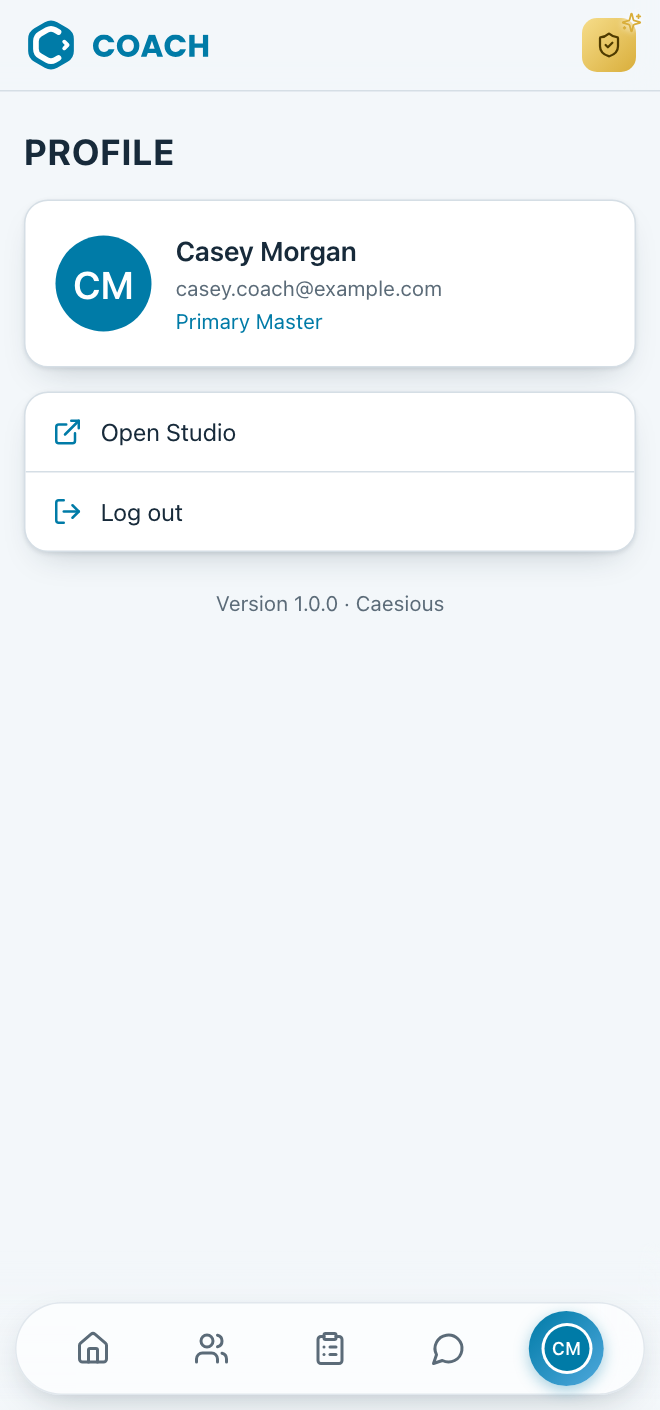
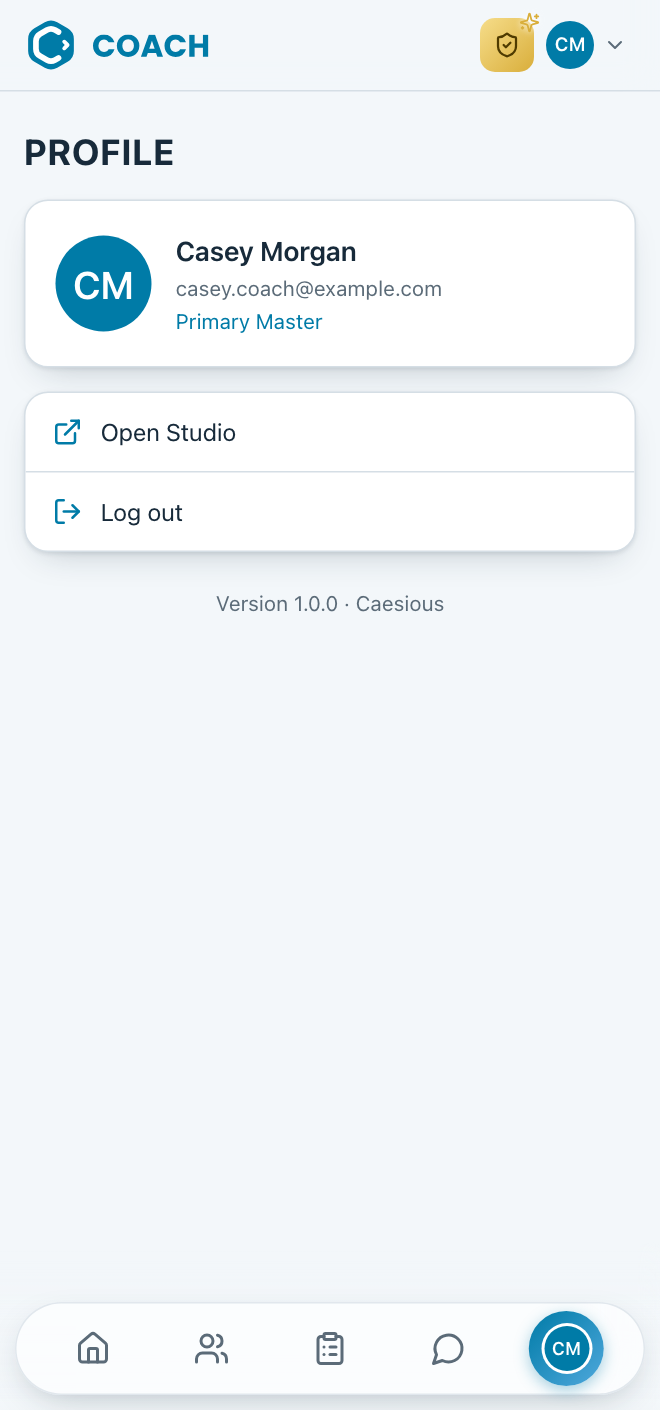
Account menu back beside the badge; Studio: schedule, sessions, and payments

Changed region(s): [[0.7273, 0.0, 0.9697, 0.0624]]

diff --git a/src/chrome/AccountMenu.jsx b/src/chrome/AccountMenu.jsx
@@ -1,0 +1,62 @@
+import React, { useEffect, useRef, useState } from "react";
+import { ChevronDown, ExternalLink, LogOut } from "lucide-react";
+import { STUDIO_URL } from "../lib/api";
+import { VERSION_LABEL } from "../version";
+import { Avatar } from "./Avatar";
+
+const ROLE = { master: "Master", admin: "Admin", staff: "Front desk", trainer: "Trainer" };
+
+/**
+ * You, in the corner: your photo or initials with a chevron, opening a menu
+ * with who is signed in, Open Studio, Log out and the version. Coach's first
+ * header had it (Glenn liked it and asked for it back, 16 Oct 2026); it sits
+ * after the role badge, and Profile on the tab bar holds the same things.
+ * Your name shows beside the photo where there is room.
+ */
+export function AccountMenu({ user, onLogout }) {
+  const [open, setOpen] = useState(false);
+  const ref = useRef(null);
+  const btnRef = useRef(null);
+
+  useEffect(() => {
+    if (!open) return undefined;
+    const onDown = (e) => { if (!ref.current?.contains(e.target)) setOpen(false); };
+    const onKey = (e) => { if (e.key === "Escape") { setOpen(false); btnRef.current?.focus(); } };
+    document.addEventListener("mousedown", onDown);
+    document.addEventListener("keydown", onKey);
+    return () => { document.removeEventListener("mousedown", onDown); document.removeEventListener("keydown", onKey); };
+  }, [open]);
+
+  const role = user.isPrimary ? "Primary Master" : ROLE[user.role];
+  return (
+    <div className="relative" ref={ref}>
+      <button ref={btnRef} type="button" onClick={() => setOpen(o => !o)} aria-expanded={open} aria-haspopup="menu"
+        aria-label={`${user.name}: account menu`}
+        className="flex items-center gap-1.5 rounded-full pl-0.5 pr-1.5 h-9 transition-colors hover:bg-(--ghost-fill)">
+        <Avatar user={user} size={32} />
+        <span className="hidden sm:block text-sm font-medium max-w-48 truncate" style={{ color: "var(--ink)" }}>{user.name}</span>
+        <ChevronDown size={16} style={{ color: "var(--iron)", transform: open ? "rotate(180deg)" : undefined, transition: "transform .2s ease" }} aria-hidden="true" />
+      </button>
+      {open && (
+        <div role="menu" className="cx-card absolute right-0 mt-2 w-64 p-2" style={{ borderRadius: 14, zIndex: 40, background: "var(--badge-open)" }}>
+          <div className="px-3 py-2 flex items-center gap-3">
+            <Avatar user={user} size={40} />
+            <div className="min-w-0">
+              <div className="font-semibold truncate">{user.name}</div>
+              <div className="text-xs truncate" style={{ color: "var(--iron)" }}>{user.email}</div>
+              {role && <div className="text-xs mt-0.5" style={{ color: "var(--accent)" }}>{role}</div>}
+            </div>
+          </div>
+          <div className="my-1 border-t" />
+          <a role="menuitem" href={STUDIO_URL} className="flex items-center gap-2.5 px-3 py-2 rounded-lg text-sm hover:bg-(--ghost-fill)">
+            <ExternalLink size={16} style={{ color: "var(--accent)" }} aria-hidden="true" /> Open Studio
+          </a>
+          <button role="menuitem" type="button" onClick={onLogout} className="w-full flex items-center gap-2.5 px-3 py-2 rounded-lg text-sm hover:bg-(--ghost-fill)">
+            <LogOut size={16} style={{ color: "var(--accent)" }} aria-hidden="true" /> Log out
+          </button>
+          <p className="px-3 pt-1 pb-1 text-[11px]" style={{ color: "var(--iron)" }}>Version {VERSION_LABEL}</p>
+        </div>
+      )}
+    </div>
+  );
+}

diff --git a/src/chrome/Header.jsx b/src/chrome/Header.jsx
@@ -5,6 +5,7 @@ import badgeMarkDark from "../assets/coach-badge-dark.svg";
 import coachIcon from "../assets/coach-app-icon.png";
 import studioIcon from "../assets/studio-app-icon.png";
 import { CoachWordmark } from "./CoachWordmark";
+import { AccountMenu } from "./AccountMenu";
 import { STUDIO_URL } from "../lib/api";
 
 /* A badge's square, as in Studio's header: the logo is drawn at it so
@@ -27,7 +28,7 @@ const ROLE = { master: "Master", admin: "Admin" };
  * always there. Open, the badge stops being a badge on top of a panel and
  * becomes the top of it: one fill, one outline (.cx-logo-badge-open).
  */
-export function Header({ user }) {
+export function Header({ user, onLogout }) {
   const [open, setOpen] = useState(false);
   const btnRef = useRef(null);
   const panelRef = useRef(null);
@@ -97,8 +98,9 @@ export function Header({ user }) {
 
         <div className="flex-1" />
 
-        {/* Studio's badges: an Admin's or a Master's account says so in the
-            corner, its name opening out under the pointer. A trainer has none. */}
+        {/* Studio's badges: an Admin's or a Master's account says so, its name
+            opening out under the pointer (a trainer has none); then you, with
+            your account menu, in the corner. */}
         <div className="cx-badge-row">
           {ROLE[user.role] && (
             <span className="relative inline-flex flex-none">
@@ -120,6 +122,7 @@ export function Header({ user }) {
               )}
             </span>
           )}
+          <AccountMenu user={user} onLogout={onLogout} />
         </div>
 
         {drawn && (
@@ -140,7 +143,7 @@ export function Header({ user }) {
                 <img src={studioIcon} alt="" className="flex-none" style={{ width: 40, height: 40, borderRadius: 10 }} />
                 <span className="min-w-0 flex-1">
                   <span className="block font-semibold">Studio</span>
-                  <span className="block text-sm" style={{ color: "var(--iron)" }}>Schedule, clients and payments</span>
+                  <span className="block text-sm" style={{ color: "var(--iron)" }}>Schedule, sessions, and payments</span>
                 </span>
               </a>
             </div>

diff --git a/src/Shell.jsx b/src/Shell.jsx
@@ -27,7 +27,7 @@ export function Shell({ user, onLogout }) {
 
   return (
     <div className="min-h-dvh" style={{ background: "var(--paper)" }}>
-      <Header user={user} />
+      <Header user={user} onLogout={onLogout} />
       {/* Room at the end for the bar floating over it. */}
       <main className="pb-32">
         {tab === "home" && <HomeTab user={user} onOpen={open} />}

diff --git a/NEURALBRAIN.md b/NEURALBRAIN.md
@@ -22,6 +22,8 @@ downwards means going backwards in time.
 
 # Completed brainstorm
 
+- **The account menu back beside the badge; Studio's line in the apps panel** (16 Oct 2026; Glenn: "for studio, have the description say \"schedule, sessions, and payments\"", and "I like the way you did with having the profile picture of the logged in user with a chevron pointing down then showing the submenu. Bring that back next to the user level badge."). The apps panel's Studio row now reads "Schedule, sessions, and payments", in Glenn's words and with his comma. The menu from Coach's first header came back as `src/chrome/AccountMenu.jsx`, recovered from git (`src/home/Header.jsx` before `cc8f1e9`) and restyled for the light header. That header was navy, with white text and a `white/10` hover; now it is ink text, a `--ghost-fill` hover and `--badge-open` behind the menu. It sits last in the header's badge row, after the role badge, so it holds the corner. It shows the 32px photo or initials, the name beside them from `sm` up, and a chevron that turns over while open. The menu has the name, email and kind of account ("Primary Master" where it applies, as on the badge and Profile), Open Studio, Log out and the version. Escape closes it with focus back on the button, and a press outside closes it too. The apps panel and this menu each close on a press outside themselves, so opening one closes the other (checked). Profile on the tab bar stays, holding the same things, as Glenn asked for this as well as Profile, not instead of it. The manual now has the menu in 3.1 and both ways to log out in 2.5, the word list and CHANGELOG 1.0 are updated, and the screenshots were retaken.
+
 - **Studio's header and tab bar, and the logo as the app switcher** (16 Oct 2026; Glenn: "some housekeeping lets copy the header bar and the nav bar from Studio, including the way the logo is shown. When you click on the logo now, the panel that folds out shoudl show Coach and Studio, this is a quick way to switch between apps if you have trainer account on Studio."). Copied from Studio's current code (src/chrome/Header.jsx, BottomNav.jsx, useFloatingBar.js and the theme.jsx rules behind them), not from its older screenshots, which still show a hexagon-ended bar: it has since become a pill with a lit circle. **Header** (`src/chrome/Header.jsx`): sticky, on the page's own background with a hairline under it, everything one 36px badge tall. The logo is `.cx-logo-badge`, anchored in the corner as Studio's `.iw-logo-badge` is, with two marks in one slot: the logo kit's badge at rest (cerulean on light, white on dark, through `<picture>`), and the app icon opened out, with COACH sliding out beside it. COACH is the lockup's own outline, cut out into `src/chrome/CoachWordmark.jsx` in `currentColor` (`--wordmark`: cerulean, sky in dark), as Studio sets STUDIO 3 with StudioLockupArt. It opens out under a pointer that can hover (`@media (hover: hover)`, so a tap on a phone does not leave it stuck open), on keyboard focus, and while its panel is open. **The switcher** is new rather than copied: clicking the logo folds down `.cx-apppanel`, built the way Studio's picker panel and Billy's join their buttons, with one fill and one outline, the badge squared off underneath (`.cx-logo-badge-open`). It slides on `max-height` with Studio's 220 ms put-on-the-page-a-frame-early trick, and closes on Escape (focus back to the logo), a press outside, or picking Coach. Rows: Coach ("You're here", a tick, `aria-current`) and Studio ("Schedule, clients and payments", a link to `STUDIO_URL`, with Studio's own `icon-192.png` copied in as `src/assets/studio-app-icon.png`). Always both, since every Coach account is a Studio account. The right of the header has Studio's role badges: a shield opening out to Admin, Master or Primary Master (gold, with Studio's sparkles), and none for a trainer. **Tab bar** (`src/chrome/BottomNav.jsx`): fixed at the bottom, a frosted pill (chalk at 72% with an 18px blur, at most 28rem wide) with a softening blur above it, icons only (names as `aria-label` and tooltip), and the lit tab a cerulean-to-sky circle (`.cx-nav-lit`) measured from the tab's box and slid with Studio's easing. Profile wears the photo or initials. Studio's drag-the-pill, groups and landscape rail are left out: five tabs need none of them. Tabs: Home, Clients, Programs, Messages, Profile (`src/Shell.jsx`; the tab is remembered in sessionStorage for the browser tab). The account dropdown went: as in Studio, who you are, Open Studio, Log out and the version are on **Profile** (`src/tabs/ProfileTab.jsx`). Clients, Programs and Messages open Coming soon pages, and their Home cards open those tabs too. `src/home/` became `src/tabs/` and `src/chrome/`. Checked in the browser at phone width in light and dark, and measured at 1280 wide (bar centred, 448 px): the panel opens, Escape closes it with focus back on the logo, and the tabs switch. Profile said "Master" where the header said "Primary Master", so it was made to match. Manual chapter 3 rewritten as "Finding your way around" (the top bar, switching apps, the bottom bar, Home, Profile, light or dark), sign-out in 2.5 now goes through Profile, and `npm run screenshots` takes two more pictures (`03-apps`, `04-profile`). CHANGELOG 1.0 updated.
 
 - **Vite 8 and Tailwind 4; npm audit to zero** (16 Oct 2026; was in Ideas, from the first cloud session's 9 advisories; Glenn: "let's upgrade Vite 8 and Tailwind then"). Coach only: Studio is on the same versions and still carries the warnings. Tailwind first, with its own `@tailwindcss/upgrade@4.3.3` on a clean tree: it renamed `min-h-[100dvh]` to `min-h-dvh`, `max-w-[12rem]` to `max-w-48` and `hover:bg-[var(--ghost-fill)]` to `hover:bg-(--ghost-fill)`, deleted `tailwind.config.js` (v4 is configured in CSS), and turned the `cx-` classes into `@utility` blocks. It also stripped every comment from `src/index.css` and reformatted it, so that file was rewritten by hand in v4 form with its comments kept. Two Tailwind 3 defaults that v4 drops were put back in `@layer base`: a border with no color of its own is `--iron-line` (v4 makes it the text color), and buttons show the pointing hand (v4 leaves the arrow). Then Vite 5.4 → 8.3.4 and `@vitejs/plugin-react` 4 → 6.1.2, with Tailwind through `@tailwindcss/vite` instead of PostCSS, so `postcss.config.js`, `postcss` and `autoprefixer` went (Tailwind 4 adds browser prefixes itself). Vite 8 needs Node 22.12 or newer, so `engines` went from `>=22.5` to `>=22.12`, and `/api/health` now reports `node` so the version Airo runs can be checked after the deploy (a deploy builds on the host, and an older Node there would fail the build). `npm audit`: 9 → 0. Checked: the build passes; the manual's two screenshots retaken on the new build and put beside the old ones, which look identical; the Vite 8 dev server serves the app, and in dark mode at phone width the home screen, the account menu, the pointer on every button and the divider's soft line were all correct.
@@ -224,7 +226,8 @@ time you sign in to Coach.
 
 #### 2.5 Signing out
 
-1. Tap **Profile** — your photo or initials, last on the bar at the bottom.
+1. Tap your photo or initials — either the one in the top right corner, or
+   **Profile**, last on the bar at the bottom.
 2. Tap **Log out**.
 
 You are back on the sign-in screen. Signing out of Coach does not sign you out
@@ -249,6 +252,15 @@ Across the top of every screen:
 - **On the right**, an Admin or Master account has a small shield, gold for a
   Master. On a computer, point at it and it says which: **Admin**, **Master**
   or **Primary Master**. A trainer's account has no shield.
+- **In the corner**, your photo (or your initials) with a small arrow
+  pointing down — your account menu. On a wider screen your name is beside
+  it.
+
+**Your account menu.** Tap your photo or initials in the top right corner. A
+small panel opens with your name, your email address and what kind of account
+you have, then **Open Studio**, **Log out**, and the version on the last line.
+It holds the same things as Profile (3.5), so use whichever is closer. To close
+it, tap anywhere else or press Esc.
 
 The bar stays at the top as you scroll.
 
@@ -266,7 +278,7 @@ between them.
    heading **TRAINABILITY APPS**.
 2. The panel lists both apps:
    - **Coach** — *You're here*, with a tick.
-   - **Studio** — *Schedule, clients and payments*.
+   - **Studio** — *Schedule, sessions, and payments*.
 3. Tap **Studio** to go to Studio. If you are not signed in there, sign in with
    the same email and password.
 
@@ -357,7 +369,8 @@ and light otherwise. There is nothing to set in the app.
 | **Coming soon** | A part of Coach that is planned but not built yet. |
 | **Apps panel** | The panel that folds down from the Coach logo, for switching between Coach and Studio (3.2). |
 | **Profile** | The last button on the bottom bar: who is signed in, Open Studio and Log out (3.5). |
-| **Version** | Which release of Coach you are using: a number such as 1.0.0, and the release's name, such as Caesious. Shown on the sign-in screen and at the foot of Profile. |
+| **Account menu** | The menu under your photo in the top right corner: the same things as Profile (3.1). |
+| **Version** | Which release of Coach you are using: a number such as 1.0.0, and the release's name, such as Caesious. Shown on the sign-in screen, in your account menu and at the foot of Profile. |
 
 <div style="page-break-after: always;"></div>
 

diff --git a/MANUAL.md b/MANUAL.md
@@ -155,7 +155,8 @@ time you sign in to Coach.
 
 ### 2.5 Signing out
 
-1. Tap **Profile** — your photo or initials, last on the bar at the bottom.
+1. Tap your photo or initials — either the one in the top right corner, or
+   **Profile**, last on the bar at the bottom.
 2. Tap **Log out**.
 
 You are back on the sign-in screen. Signing out of Coach does not sign you out
@@ -180,6 +181,15 @@ Across the top of every screen:
 - **On the right**, an Admin or Master account has a small shield, gold for a
   Master. On a computer, point at it and it says which: **Admin**, **Master**
   or **Primary Master**. A trainer's account has no shield.
+- **In the corner**, your photo (or your initials) with a small arrow
+  pointing down — your account menu. On a wider screen your name is beside
+  it.
+
+**Your account menu.** Tap your photo or initials in the top right corner. A
+small panel opens with your name, your email address and what kind of account
+you have, then **Open Studio**, **Log out**, and the version on the last line.
+It holds the same things as Profile (3.5), so use whichever is closer. To close
+it, tap anywhere else or press Esc.
 
 The bar stays at the top as you scroll.
 
@@ -197,7 +207,7 @@ between them.
    heading **TRAINABILITY APPS**.
 2. The panel lists both apps:
    - **Coach** — *You're here*, with a tick.
-   - **Studio** — *Schedule, clients and payments*.
+   - **Studio** — *Schedule, sessions, and payments*.
 3. Tap **Studio** to go to Studio. If you are not signed in there, sign in with
    the same email and password.
 
@@ -288,7 +298,8 @@ and light otherwise. There is nothing to set in the app.
 | **Coming soon** | A part of Coach that is planned but not built yet. |
 | **Apps panel** | The panel that folds down from the Coach logo, for switching between Coach and Studio (3.2). |
 | **Profile** | The last button on the bottom bar: who is signed in, Open Studio and Log out (3.5). |
-| **Version** | Which release of Coach you are using: a number such as 1.0.0, and the release's name, such as Caesious. Shown on the sign-in screen and at the foot of Profile. |
+| **Account menu** | The menu under your photo in the top right corner: the same things as Profile (3.1). |
+| **Version** | Which release of Coach you are using: a number such as 1.0.0, and the release's name, such as Caesious. Shown on the sign-in screen, in your account menu and at the foot of Profile. |
 
 <div style="page-break-after: always;"></div>
 

diff --git a/CHANGELOG.md b/CHANGELOG.md
@@ -21,6 +21,7 @@ The first version of Trainability Coach, live at trainabilitycoach.com.
   Profile.
 - **Switch between Coach and Studio.** Tap the Coach logo and a panel folds
   down with both apps; Studio is one tap away.
-- **Profile.** Your name, email and kind of account, Open Studio, Log out and
-  the version.
+- **Your account menu and Profile.** Your photo in the top corner opens a menu
+  with your name, email and kind of account, Open Studio, Log out and the
+  version; Profile, on the bar, holds the same.
 - **Light or dark,** following your phone or computer.
